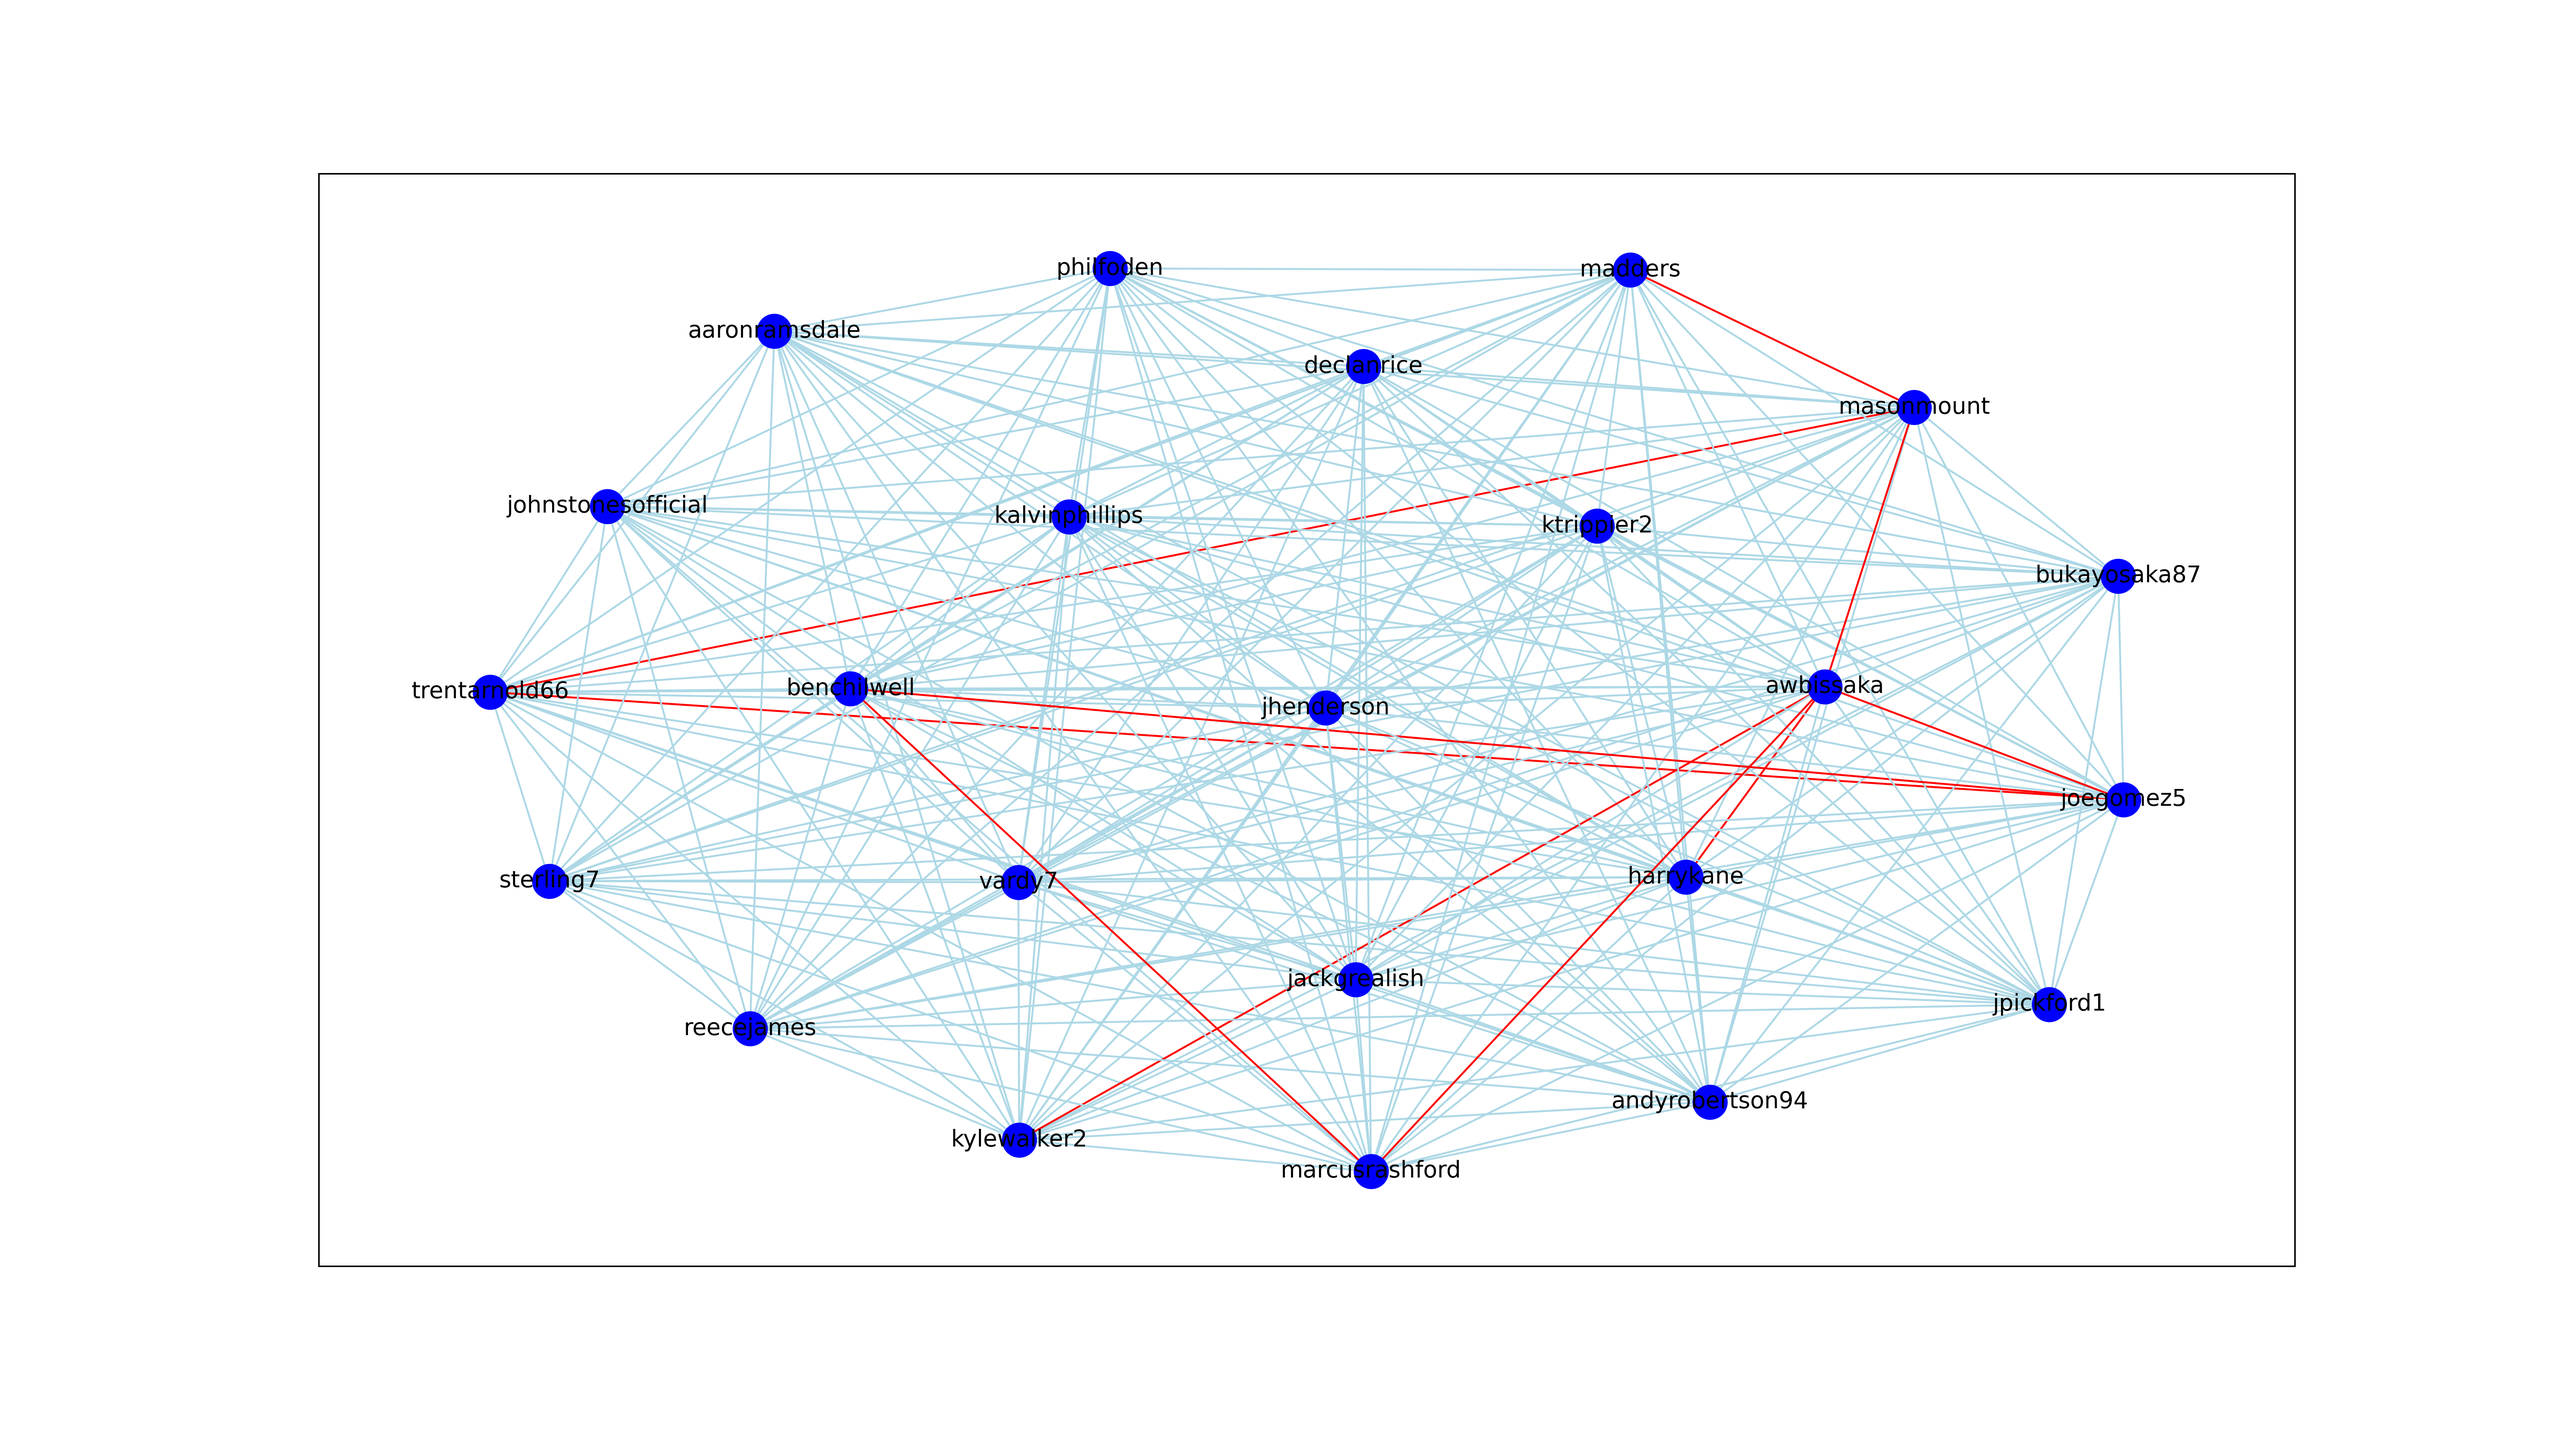
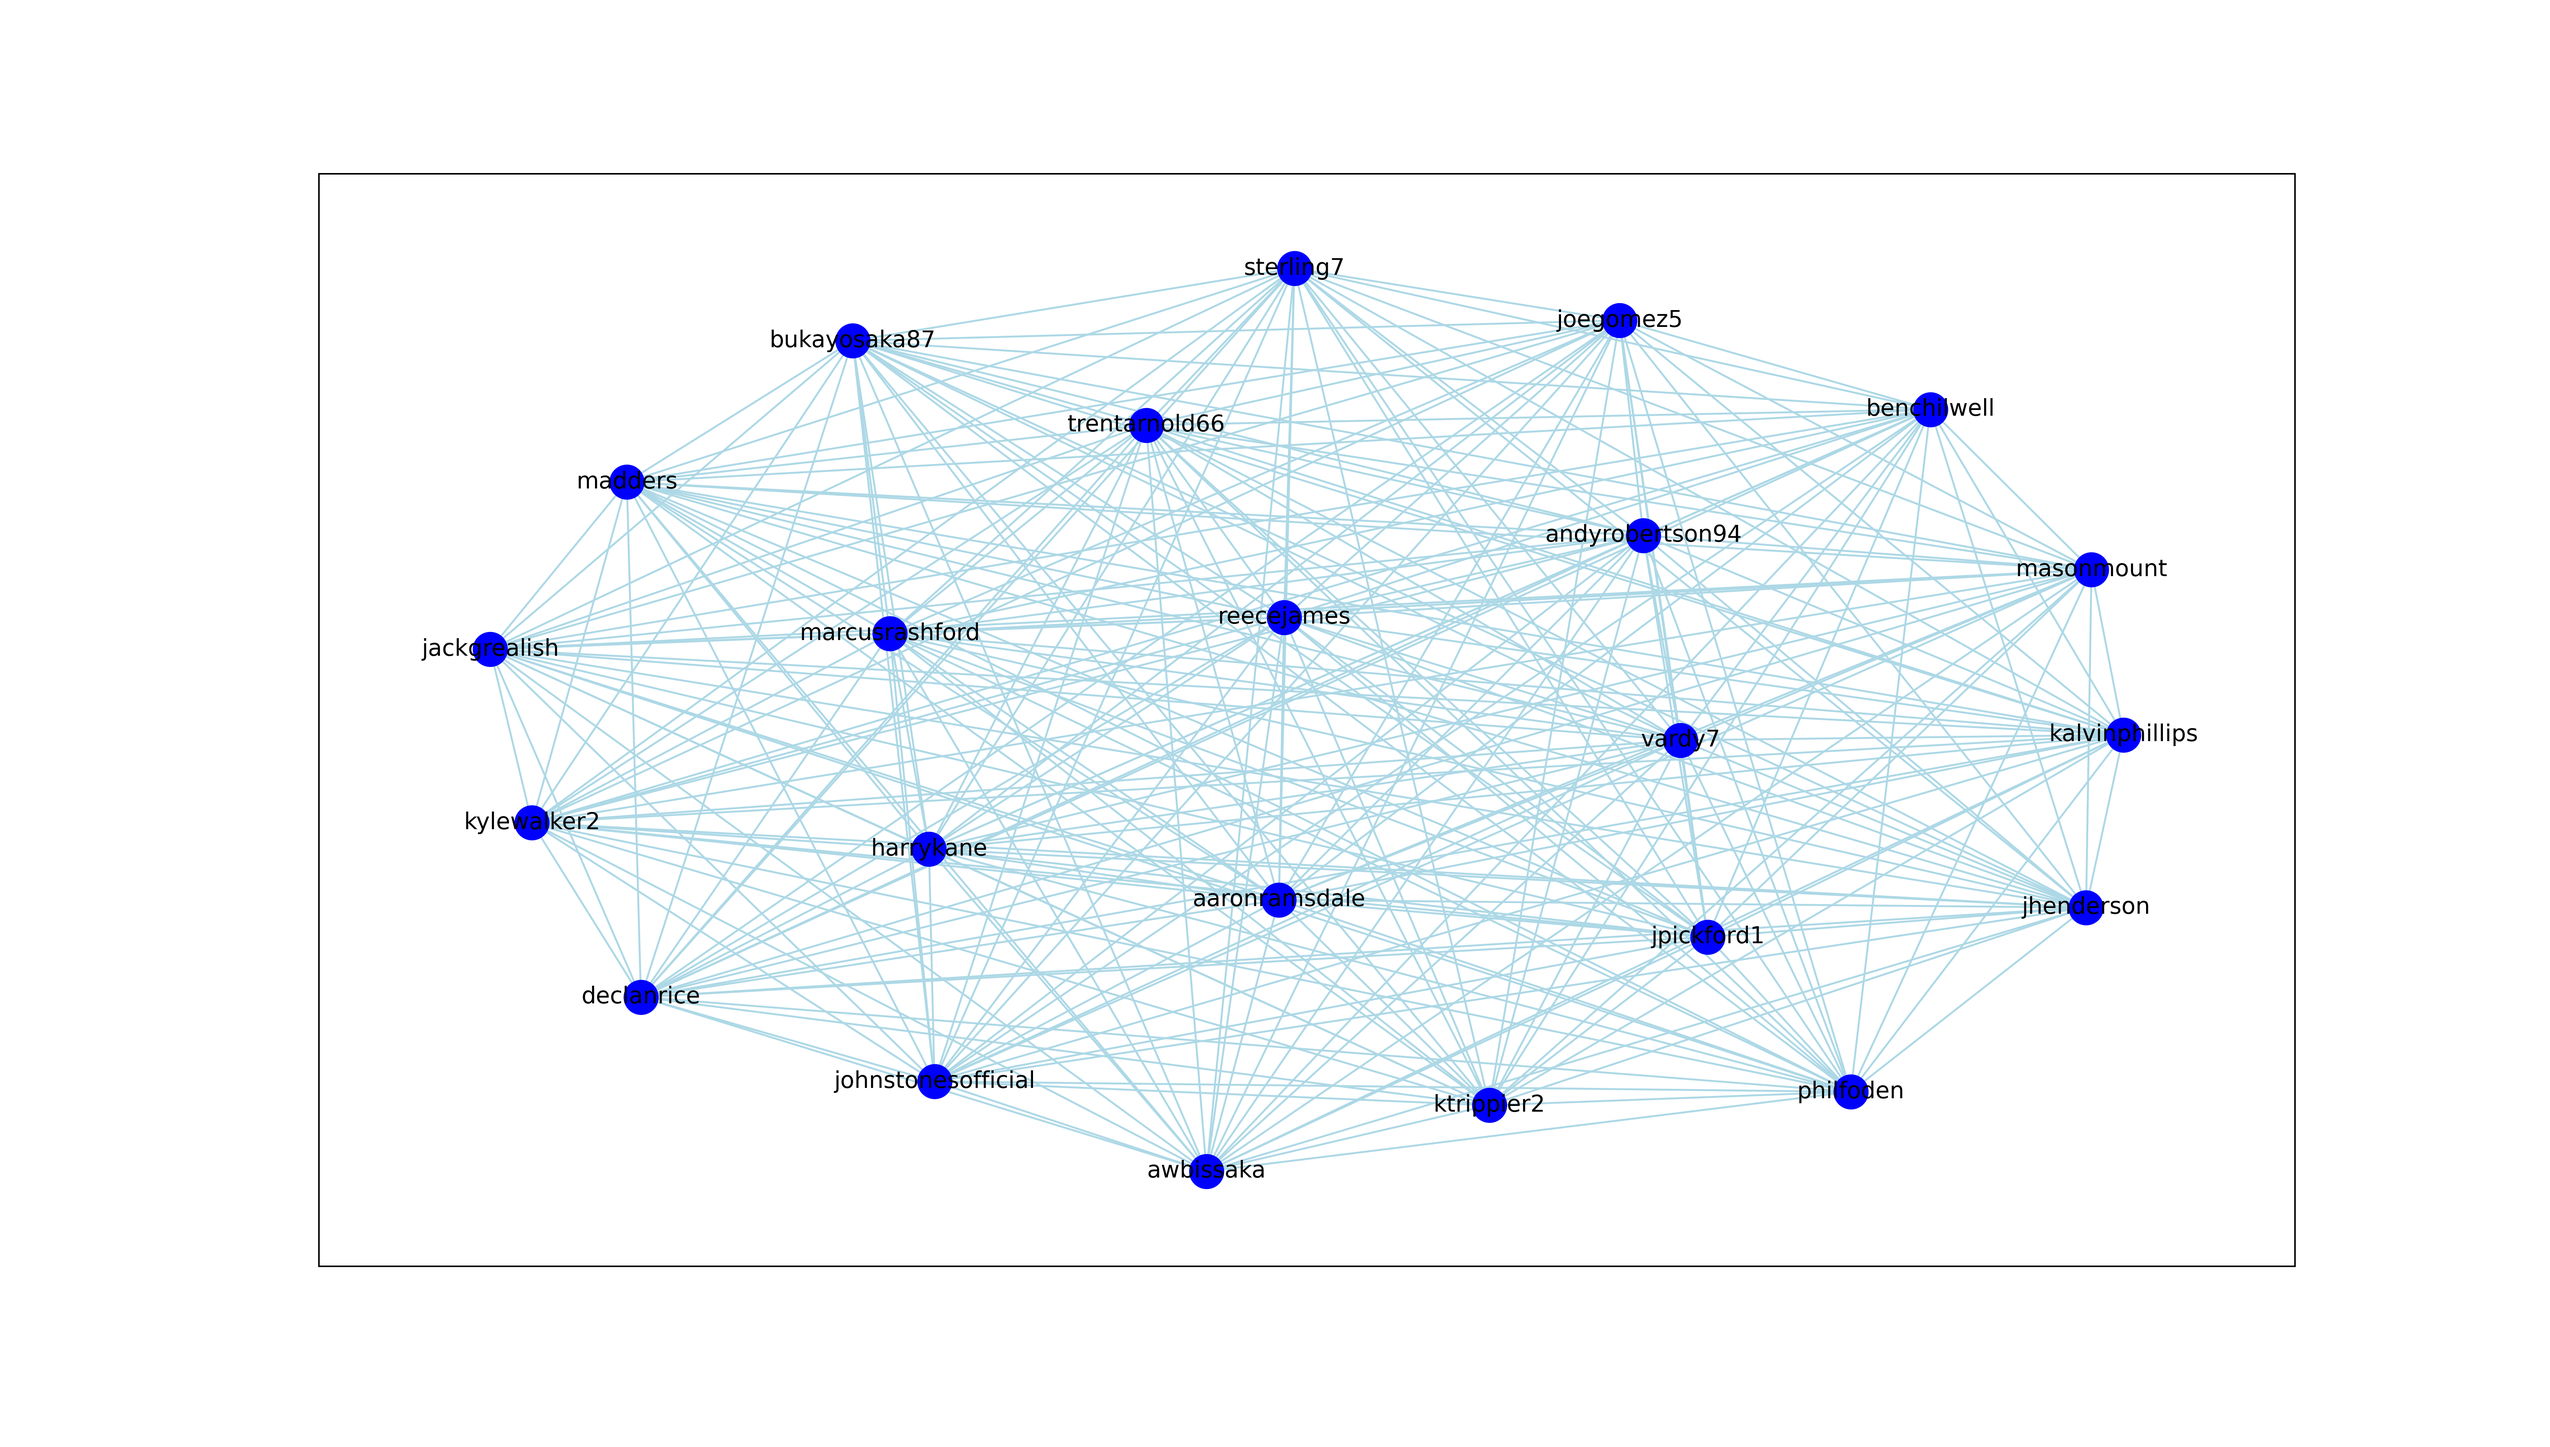
get laylout

Changed region(s): [[0.1562, 0.1561, 0.8432, 0.8429]]

diff --git a/get_laylout.py b/get_laylout.py
@@ -1,0 +1,134 @@
+import utils as utils
+from tass_nlp import TassNlp
+from tass_sofifa import TassSofia
+
+# import torch
+import numpy as np
+import pandas as pd
+import networkx as nx
+import matplotlib as mpl
+import matplotlib.pyplot as plt
+
+
+# from main import get_sofifa_matrix
+profiles = ['harrykane', 'trentarnold66', 'sterling7', 'kylewalker2',
+            'philfoden', 'reecejames', 'jackgrealish', 'ktrippier2',
+            'declanrice', 'madders', 'bukayosaka87', 'masonmount',
+            'andyrobertson94', 'johnstonesofficial', 'vardy7', 'aaronramsdale',
+            'benchilwell', 'jpickford1', 'jhenderson', 'joegomez5',
+            'kalvinphillips', 'marcusrashford', 'awbissaka']   
+
+names = ['H. Kane', 'T. Alexander-Arnold', 'R. Sterling', 'K. Walker',
+         'P. Foden', 'R. James', 'J. Grealish', 'K. Trippier',
+         'D. Rice', 'J. Maddison', 'B. Saka', 'M. Mount',
+         'A. Robertson', 'J. Stones', 'J. Vardy', 'A. Ramsdale',
+         'B. Chilwell', 'J. Pickford', 'J. Henderson', 'J. Gomez',
+         'K. Phillips', 'M. Rashford', 'A. Wan-Bissaka']
+
+
+def get_sofifa_matrix(names, profiles):
+    so = TassSofia('sofifa_processed.csv')
+    
+    footballers = {}
+    
+    for name in names:
+      footballers[name] = so.get_footballer_atr(name).values.flatten()  
+
+
+    df = []
+    for i in names:
+        lst = []
+        for j in names:
+            
+            a = footballers[i]
+            b = footballers[j]
+            cos_sim = np.dot(a, b)/(np.linalg.norm(a)*np.linalg.norm(b))
+            
+            lst.append(cos_sim)
+            
+        df.append(lst)
+    
+    sa = np.array(df)
+    
+    np.fill_diagonal(sa, 0)   
+    row_sums = sa.sum(axis=1)
+    sa = sa / row_sums[:, np.newaxis]
+    # sa = np.triu(sa)
+    
+    df = pd.DataFrame(sa) 
+    df.columns = profiles
+    df.index = profiles
+    
+    return df
+
+
+def get_sofifa_layout(names, profiles,\
+                      file = 'pos_sofifa.csv') -> pd.DataFrame:
+
+    sdf = get_sofifa_matrix(names, profiles)
+
+    sG = nx.from_pandas_adjacency(sdf)
+    pos = nx.spring_layout(sG)
+
+    df = pd.DataFrame(pos).T
+    df.reset_index(inplace=True)
+    df.columns=['player', 'x', 'y']
+    df.to_csv(file, index=False)
+    
+    return df
+
+
+def get_insta_matrix(profiles, threshold_kw = 0.5, threshold_cos = 0.5):
+
+
+    tass_nlp = TassNlp()
+    
+    all_docs = tass_nlp.read_profiles(profiles)
+    all_kw = tass_nlp.find_all_keywords(profiles, all_docs, threshold_kw)
+    all_en = tass_nlp.encode_keywords(profiles, all_kw)
+
+    df_list = []
+    for i in profiles:
+        lst = []
+        for j in profiles:        
+            similarity = utils.get_cos_similarity(all_en[i], all_en[j],
+                                                  threshold = threshold_cos)
+            lst.append(similarity)
+            # print(f"{i} {j} similarity {similarity}")
+        df_list.append(lst)
+    
+    na = np.array(df_list)
+    np.fill_diagonal(na, 0)   
+    row_sums = na.sum(axis=1)
+    na = na / row_sums[:, np.newaxis]   
+    
+    df = pd.DataFrame(na) 
+    df.columns = profiles
+    df.index = profiles
+    
+    return df
+
+
+def get_insta_layout(names, profiles,\
+                      file = 'pos_insta.csv') -> pd.DataFrame:
+
+    sdf = get_insta_matrix(profiles)
+
+    sG = nx.from_pandas_adjacency(sdf)
+    pos = nx.spring_layout(sG)
+
+    df = pd.DataFrame(pos).T
+    df.reset_index(inplace=True)
+    df.columns=['player', 'x', 'y']
+    df.to_csv(file, index=False)
+    
+    return df
+
+
+def main():
+    get_sofifa_layout(names, profiles)
+    get_insta_layout(names, profiles)
+    
+
+# if __name__ == '__main__':
+#     main()

diff --git a/main.py b/main.py
@@ -62,7 +62,7 @@ def get_insta_matrix(profiles, threshold_kw = 0.5, threshold_cos = 0.5):
     np.fill_diagonal(na, 0)   
     row_sums = na.sum(axis=1)
     na = na / row_sums[:, np.newaxis]
-    na = np.triu(na)
+    # na = np.triu(na)
     
     
     df = pd.DataFrame(na) 
@@ -105,7 +105,7 @@ def get_sofifa_matrix(names, profiles):
     np.fill_diagonal(sa, 0)   
     row_sums = sa.sum(axis=1)
     sa = sa / row_sums[:, np.newaxis]
-    sa = np.triu(sa)
+    # sa = np.triu(sa)
     
     df = pd.DataFrame(sa) 
     df.columns = profiles
@@ -140,6 +140,8 @@ sdf = get_sofifa_matrix(names, profiles)
 
 sG = nx.from_pandas_adjacency(sdf)
 pos = nx.spring_layout(sG)
+
+
 
 
 _,weights = zip(*nx.get_edge_attributes(sG,'weight').items())
